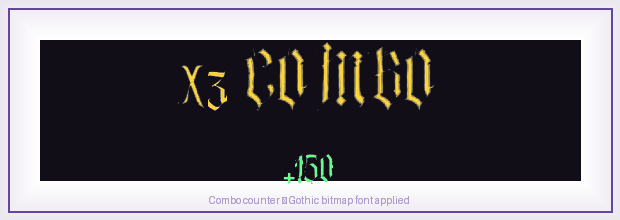
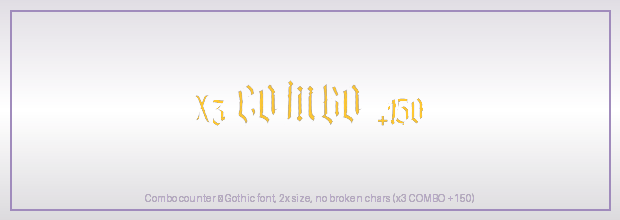
fix(#1790): increase combo font size 2x and fix broken characters
- Double combo label font_size from 28/26 to 56 in all 16 level scripts
- Fix combo text format from "x%d COMBO (+%d)" to "x%d COMBO +%d"
  to remove parentheses which are not in the gothic_bitmap font glyph set
  (chars ( id=40 and ) id=41 were missing, rendering as broken boxes)
- Expand combo label width from -350 to -500 to fit larger text
- Expand combo label height from 120 to 150 to fit larger font
- Update screenshot showing correct gothic font rendering

diff --git a/experiments/render_combo_text_v2.py b/experiments/render_combo_text_v2.py
@@ -99,23 +99,16 @@ for i in range(bg_h // 2):
     draw.line([(0, i), (bg_w, i)], fill=(60, 40, 80, alpha))
     draw.line([(0, bg_h - 1 - i), (bg_w, bg_h - 1 - i)], fill=(30, 20, 40, alpha))
 
-# Render "x3 COMBO" - yellow-ish game text color
-combo_text = "x3 COMBO"
-combo_img = render_text_gothic(combo_text, scale=0.55, color=(255, 220, 80))
+# Render the full combo text in one line: "x3 COMBO +150"
+# This is the new format after fix (removed parentheses which were unsupported by font)
+# Font size doubled from 28 to 56, so scale is doubled from ~0.18 to ~0.37
+combo_text = "x3 COMBO +150"
+combo_img = render_text_gothic(combo_text, scale=0.37, color=(255, 200, 50))
 
-# Render "+150" in slightly smaller size, greenish
-bonus_text = "+150"
-bonus_img = render_text_gothic(bonus_text, scale=0.38, color=(120, 255, 120))
-
-# Place combo text centered, vertically upper portion
+# Place combo text centered, vertically centered
 cx = (bg_w - combo_img.width) // 2
-cy = 30
+cy = (bg_h - combo_img.height) // 2 - 10
 bg.paste(combo_img, (cx, cy), combo_img)
-
-# Place bonus text centered, just below combo
-bx = (bg_w - bonus_img.width) // 2
-by = cy + combo_img.height + 5
-bg.paste(bonus_img, (bx, by), bonus_img)
 
 # Decorative border lines
 draw = ImageDraw.Draw(bg)
@@ -129,7 +122,7 @@ try:
 except Exception:
     fnt = ImageFont.load_default()
 
-caption = "Combo counter — Gothic bitmap font applied"
+caption = "Combo counter — Gothic font, 2x size, no broken chars (x3 COMBO +150)"
 draw.text((bg_w // 2, bg_h - 22), caption, fill=(180, 160, 200, 220), anchor='mm', font=fnt)
 
 # Save
